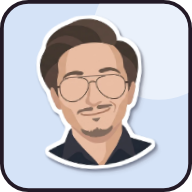
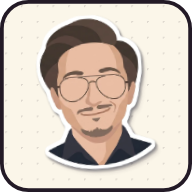
Icoon van de site: sticker op het papier met stippen
Rubens keuze: zijn sticker op het papier met stippen van de site, in
plaats van op een lichtblauwe tegel.

Claude-Session: https://claude.ai/code/session_01H3Yh4BeEm3cfnGJdZLWFK5

diff --git a/CLAUDE.md b/CLAUDE.md
@@ -463,7 +463,7 @@ Dit is de persoonlijke website van Ruben, gehost met GitHub Pages vanaf de main-
   - alleen wat je opende, niets vooraf; de homepage is ook offline te openen als `/` of `index.html`.
 - **De noodstop**: zet `const UIT = true;` bovenaan `rommelhoekje-sw.js` en zet het bestand online. Bij het volgende bezoek gooit hij zijn opslag weg en laat hij alles via internet gaan (hij blijft aangemeld, maar doet niets). De browser kijkt bij elk bezoek of het bestand veranderd is (`updateViaCache: 'none'`).
 - **De wachtrij** (Background Sync): speel je zonder internet, dan zet het blok wat er veranderde in IndexedDB `rommelhoekje`, tabel `uit`, onder `sync` (`wachtrij()`: na een verandering in een spel, en bij het sluiten van de pagina zonder internet), en vraagt het een `sync` aan (`rommelhoekje-sync`). Chrome en Android versturen dat ook als de pagina dicht is; staat er een pagina van de site open, dan zet die zelf gelijk (bij het event `online`) en haalt de wachtrij weg. Na 7 dagen gooit de service worker een wachtrij weg. Ontkoppelen leegt hem ook.
-- **Het manifest** `rommelhoekje.webmanifest` (`display: minimal-ui`, zodat een geïnstalleerde app een terugknop heeft; op een iPhone opent het beginschermicoon zoals iOS dat kiest) en de iconen `rommelhoekje-icoon-180.png` (iPhone, `apple-touch-icon`), `-192`, `-512` en `-masker.png`: Rubens sticker (`ruben-sticker.webp`, iets schuin) op een lichtblauwe tegel met een inktrand, zoals de tegels op de homepage (het masker zonder rand en kleiner, binnen de veilige cirkel; de iPhone zonder rand en zonder doorzichtige hoeken). Gemaakt met een klein Playwright-script (niet in de repository). Het blok zet de verwijzingen in de pagina; verder verandert het uiterlijk van de site niet. **Let op op een iPhone**: een app op het beginscherm heeft een eigen opslag, dus daar vul je de koppelcode één keer in.
+- **Het manifest** `rommelhoekje.webmanifest` (`display: minimal-ui`, zodat een geïnstalleerde app een terugknop heeft; op een iPhone opent het beginschermicoon zoals iOS dat kiest) en de iconen `rommelhoekje-icoon-180.png` (iPhone, `apple-touch-icon`), `-192`, `-512` en `-masker.png`: Rubens sticker (`ruben-sticker.webp`, iets schuin) op het papier met stippen van de site (`#FBF6E9`), met een inktrand en afgeronde hoeken (het masker zonder rand en kleiner, binnen de veilige cirkel; de iPhone zonder rand en zonder doorzichtige hoeken). Gemaakt met een klein Playwright-script (niet in de repository). Het blok zet de verwijzingen in de pagina; verder verandert het uiterlijk van de site niet. **Let op op een iPhone**: een app op het beginscherm heeft een eigen opslag, dus daar vul je de koppelcode één keer in.
 - **De knop Tijdmachine** staat er alleen als de server hem kent (`tm` in `rommelhoekje-koppel-v`, uit `/status`). Zo kunnen de pagina's van fase 2 en 3 al online voordat scoreserver 2026-10-30b in Cloudflare staat.
 - **Veiligheidsbeleid**: niets veranderd (`worker-src 'self'` stond er al; `manifest-src` valt terug op `default-src 'self'`).
 - **Getest** (Chromium): installeerbaar (`Page.getInstallabilityErrors` leeg), zonder internet een bezochte pagina en de homepage openen en een nieuwe pagina met de uitleg, spelen zonder internet (wachtrij, en weer online gaat het mee), Background Sync met de pagina dicht (via CDP `ServiceWorker.dispatchSyncEvent`), een nieuwe versie van een pagina komt meteen (met `max-age` en ETags, zoals GitHub), traag internet (6 s) opent in 3 s, de werkplaats houdt zijn eigen service worker, de knop Tijdmachine met een oude en een nieuwe server, de noodstop, en alle tests van fase 1 en 2 opnieuw (de simulatie met chaos 22 van 22, alle 32 pagina's zonder fouten of CSP-overtredingen).

diff --git a/koppelen-plan.md b/koppelen-plan.md
@@ -293,7 +293,7 @@ Elke fase levert iets op dat werkt. Per fase komt eerst de scoreserver (ik lever
   - `instellingen.json`: bewaard, zodat het adres van de scoreserver ook offline bekend is.
   - Alleen pagina's die je al eens opende zijn offline te gebruiken. Ik bewaar niet vooraf de hele site (ongeveer 12 MB), want dat kost op een telefoon veel data.
 - **Background Sync** (Chrome en Android): wat in de wachtrij staat, verstuurt de service worker zodra er weer verbinding is, ook als de pagina dicht is. In Safari gebeurt dat bij het volgende bezoek, of zodra de verbinding terugkomt terwijl de pagina open is.
-- **Een manifest** `rommelhoekje.webmanifest`, met een icoon in de stijl van de site (Rubens sticker op een tegel zoals op de homepage). Het gedeelde blok zet de verwijzing in de pagina. Het uiterlijk van de site verandert niet.
+- **Een manifest** `rommelhoekje.webmanifest`, met een icoon in de stijl van de site (Rubens sticker op het papier met stippen van de site). Het gedeelde blok zet de verwijzing in de pagina. Het uiterlijk van de site verandert niet.
 - **Veiligheidsbeleid**: niets nodig. `worker-src 'self'` staat er al, en `manifest-src` valt terug op `default-src 'self'`.
 
 ### Fase 4: live doorspelen
